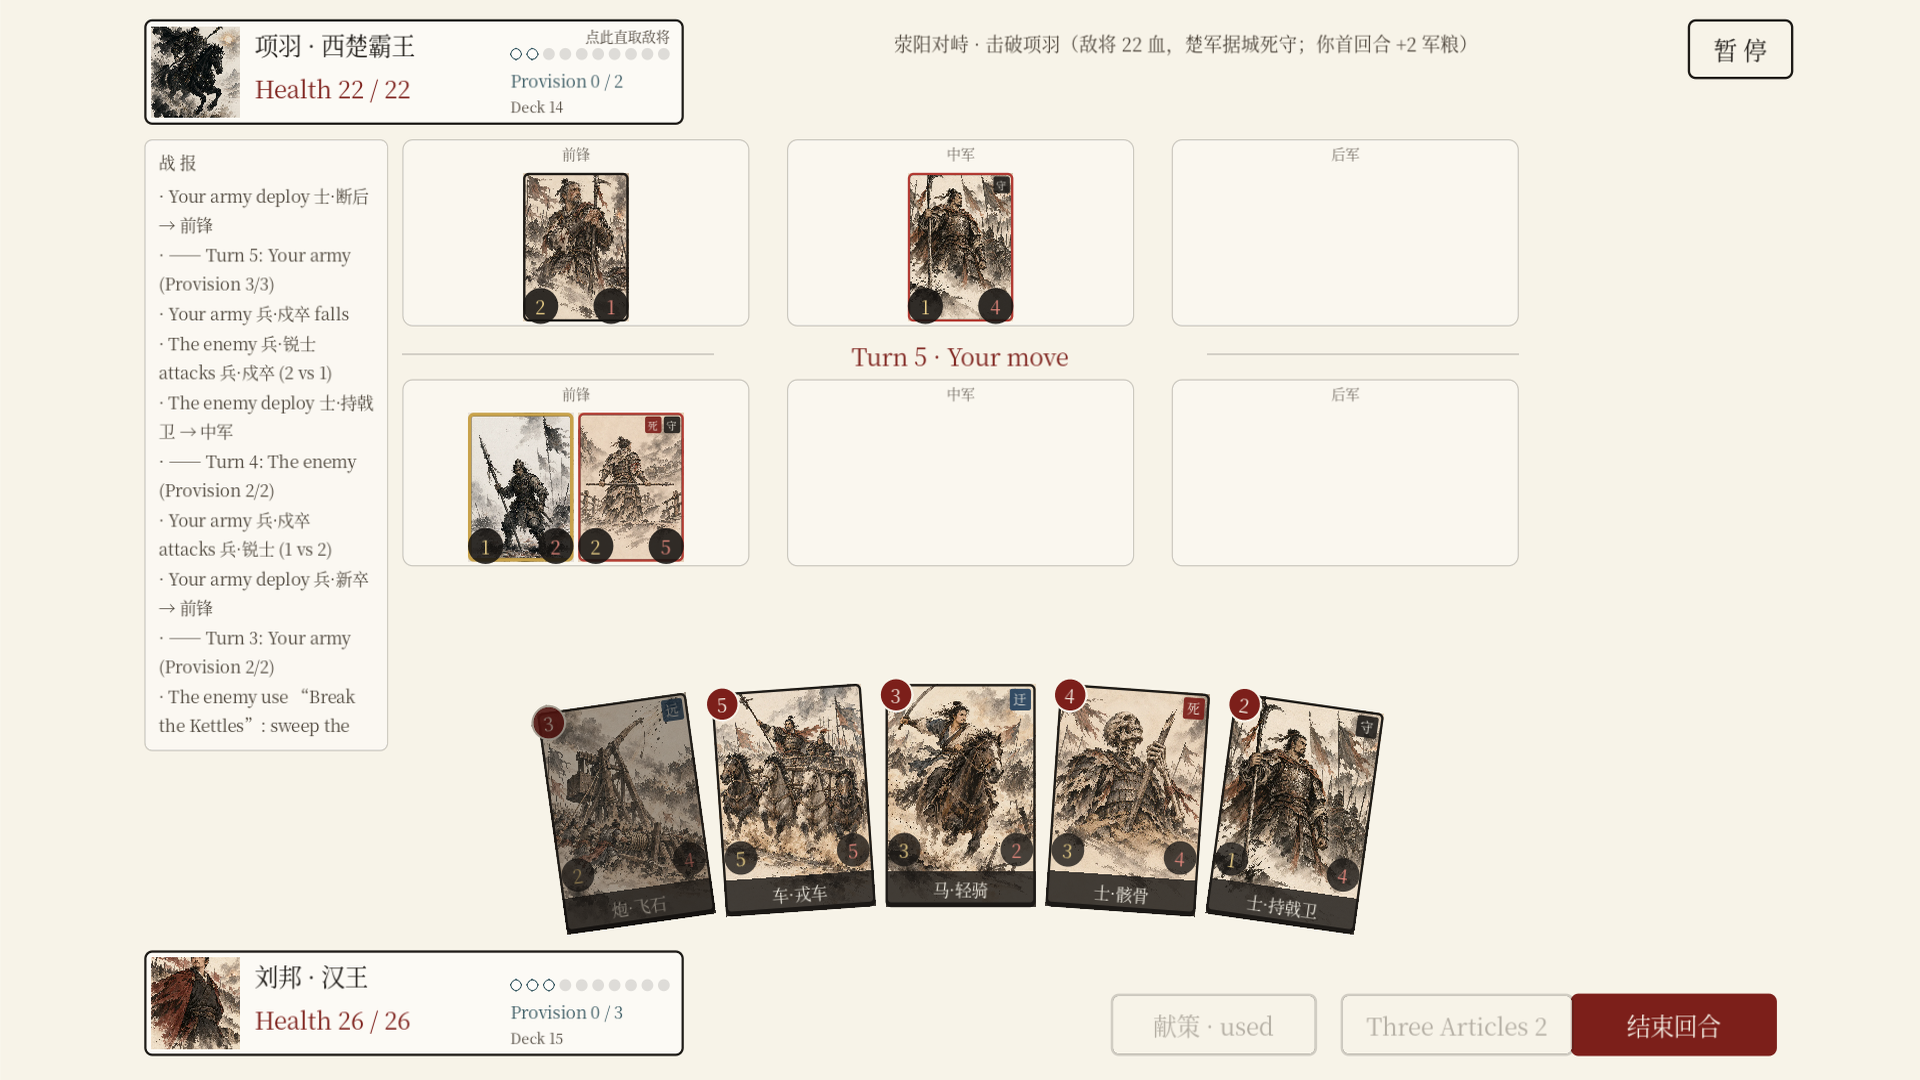
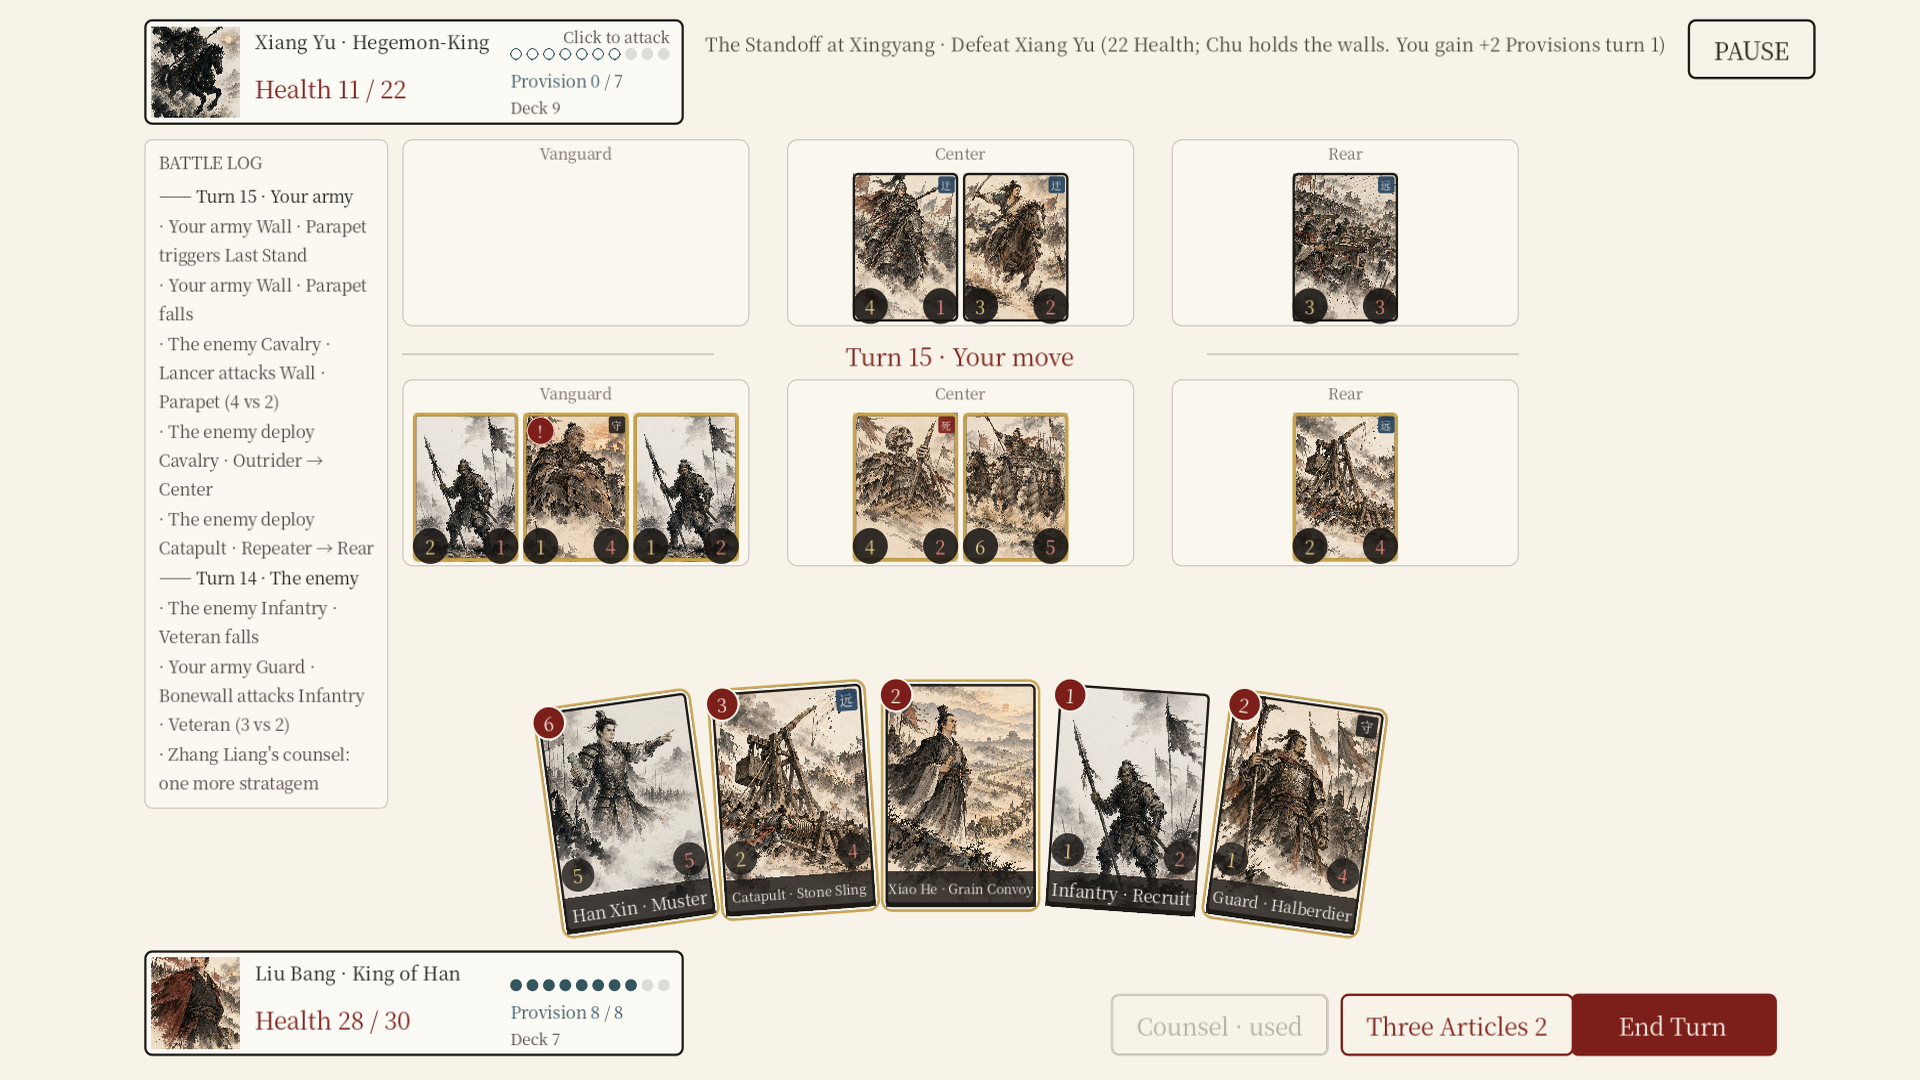
fix(ui): 主将卡英文名与提示放得下；商店截图不再中英混排
重拍商店首图时从成品里看出两个跟字号无关的问题，都只有英文玩家看得到。

一、英文截图混着中文
截图脚本原来是「先打一局中文 → 切英文 → 同一局再拍」，拍出来英文句子里的卡名是中文
（The enemy deploy 马·轻骑 → 中军）、手牌牌名整片中文。两层原因：卡牌实例是 GameData
的副本，apply_data() 改不到；战报条目的卡名是生成那一刻写死进 a["name"] 的。
relang() 能救「当场重画」的元素，救不了历史文本 —— 所以改成中英各打一整局，语言开打前就定。

二、主将卡两处文字放不下
- 名字栏 210px：中文「项羽 · 西楚霸王」137px，英文「Xiang Yu · Hegemon-King of Chu」
  20px 要 321px、16px 260px、14px 229px —— 降到哪一档都放不下，不是调字号能解决的。
  三条一起上：新增 UiTheme.fit_size(text, max_w, [20,16]) 按宽度降档；文案收成 Hegemon-King
  （204px @16 过线）；保留 ellipsis 兜底。
- 提示框 136px：英文旧译 192px，右对齐且没开裁剪，于是往左溢出卡片、压到顶部关卡目标条上。
  收成「Click to attack」90px，并开 clip_text。

三、首图
battle_shot_peek 现在等双方各铺到 3 支部队才拍，拍前把指针挪到左上角空处（默认指针停在
窗口中央正压手牌，卡牌会放大悬出来糊住战场）。

legibility_test 7 → 10 项，新增三条盯名字/提示宽度与「提示必须开着裁剪」。
可证伪性验过：旧英文塞回去一次报出 321/257 与 192。

回归：Godot 2510 项（连跑三次一致）+ E2E 24、包内 E2E 24 全绿；
JS 2067/929/279/48/35 全绿。exe 重导出 145.7 MiB。
踩坑 72（切语言救不了历史文本）、73（固定宽名字必须按最长语言量）。

diff --git a/js/lang-en.js b/js/lang-en.js
@@ -19,7 +19,7 @@
       '楚汉': 'CHU–HAN',
       '问鼎': 'BATTLE FOR THE THRONE',
       '刘邦': 'Liu Bang', '汉王': 'King of Han',
-      '项羽': 'Xiang Yu', '西楚霸王': 'Hegemon-King of Chu',
+      '项羽': 'Xiang Yu', '西楚霸王': 'Hegemon-King',
       '技能「约法三章」（2 军粮）': 'Power \u201CThree Articles\u201D (2 Prov)',
       '恢复 2 点血；满血时随机友军 +1 攻': 'Restore 2 Health; at full Health, a random friendly unit gains +1 Attack.',
       '技能「破釜沉舟」（1 军粮）': 'Power \u201CBreak the Kettles\u201D (1 Prov)',
@@ -340,7 +340,7 @@
         skill: { name: 'Three Articles', desc: 'Restore 2 Health; if already at full Health, a random friendly unit gains +1 Attack.' }
       },
       xiangyu: {
-        name: 'Xiang Yu', title: 'Hegemon-King of Chu',
+        name: 'Xiang Yu', title: 'Hegemon-King',
         intro: '26 Health, aggression style. A power that sweeps the enemy Vanguard—all tempo, no mercy.',
         skill: { name: 'Break the Kettles', desc: 'Deal 1 damage to every enemy in the Vanguard; if that column is empty, deal 1 damage to the enemy commander.' }
       }
@@ -363,7 +363,7 @@
         subtitle: 'They are the knife and block; we are the fish and meat',
         lore: 'You entered the Pass first and broke Xianyang. Xiang Yu brought four hundred thousand men to Hongmen; you have ten thousand.\n\nYou come to the feast. At table, Fan Zeng lifts his jade pendant three times; Xiang Yu sits silent. Xiang Zhuang rises to dance with his sword, and its edge grazes your seat again and again—Xiang Bo shields you with his body; Fan Kuai storms the tent, eyes blazing.\n\nThis battle is not for winning. Walk out of that tent alive, and you have won.',
         goalText: 'Survive 10 turns (you have 12 Health and a hand limit of 3)',
-        enemy: { name: 'Xiang Yu', title: 'Hegemon-King of Chu' }
+        enemy: { name: 'Xiang Yu', title: 'Hegemon-King' }
       },
       pengcheng: {
         chapter: 'Chapter III', name: 'The Battle of Pengcheng',
@@ -371,7 +371,7 @@
         subtitle: 'The Sui River could not flow for the dead',
         lore: 'While Xiang Yu marched north against Qi, you fell on Pengcheng with half a million allied troops and took it. You thought the matter settled, and feasted day after day.\n\nThen Xiang Yu came back with thirty thousand picked horse. In half a day, half a million men came apart. The Sui River could not flow for the dead.\n\nHis riders are drawn up in their ranks. You will get one chance, and only one.',
         goalText: 'Defeat Xiang Yu (1 enemy vanguard is already arrayed; you gain +2 Provisions turn 1)',
-        enemy: { name: 'Xiang Yu', title: 'Hegemon-King of Chu' }
+        enemy: { name: 'Xiang Yu', title: 'Hegemon-King' }
       },
       xingyang: {
         chapter: 'Chapter IV', name: 'The Standoff at Xingyang',
@@ -379,7 +379,7 @@
         subtitle: 'Ji Xin burns; the King slips out by night',
         lore: 'Xiang Yu walls you into Xingyang and cuts the grain road. The city is starving; the soldiers are spent.\n\nChen Ping\u2019s sowing of distrust drives Fan Zeng away. Ji Xin dresses in your robes and rides your chariot out the east gate, offering a false surrender—and burns for it. You cut your way out the west gate with a few dozen riders, under cover of dark.\n\nTo leave this city, first punch through Chu\u2019s iron wall.',
         goalText: 'Defeat Xiang Yu (22 Health; Chu holds the walls. You gain +2 Provisions turn 1)',
-        enemy: { name: 'Xiang Yu', title: 'Hegemon-King of Chu' }
+        enemy: { name: 'Xiang Yu', title: 'Hegemon-King' }
       },
       jingxing: {
         chapter: 'Chapter V', name: 'Backs to the River',
@@ -403,7 +403,7 @@
         subtitle: 'No relief comes; hold the line alone',
         lore: 'The Treaty of the Hong Canal is signed, and Xiang Yu marches east for home. You tear it up and follow on his heels, sending word for Han Xin and Peng Yue to join you at Guling.\n\nThe appointed day comes. Not one soldier of either relief army appears. Xiang Yu wheels about and smashes into you; you dig in behind high walls and deep ditches.\n\nIf no relief is coming, then hold this line yourself.',
         goalText: 'Defeat Xiang Yu (18 Health, hand limit 4, +2 Provisions turn 1; the enemy also gains +2 Provisions turn 1)',
-        enemy: { name: 'Xiang Yu', title: 'Hegemon-King of Chu' }
+        enemy: { name: 'Xiang Yu', title: 'Hegemon-King' }
       },
       gaixia: {
         chapter: 'Chapter VIII', name: 'The Final Battle at Gaixia',
@@ -411,7 +411,7 @@
         subtitle: 'Ambush on ten sides; songs of Chu on four',
         lore: 'Han Xin\u2019s three hundred thousand hold the center, Kong Xi on the left, Chen He on the right, Zhou Bo and Chai Wu behind—ambush upon ambush, ten deep, folding around the Chu army at Gaixia.\n\nAt midnight the Han camp sings songs of Chu on every side. Xiang Yu starts up in alarm: \u201CHas Han taken all of Chu? Why are there so many men of Chu over there!\u201D\n\nThis is the last battle. He is still the Hegemon who once lifted a cauldron.',
         goalText: 'Defeat Xiang Yu (30 Health; an enemy Lancer opens on the field and the enemy gains +2 Provisions turn 1; you gain +3 Provisions turn 1)',
-        enemy: { name: 'Xiang Yu', title: 'Hegemon-King of Chu' }
+        enemy: { name: 'Xiang Yu', title: 'Hegemon-King' }
       }
     },
 

diff --git a/test/i18n-check.js b/test/i18n-check.js
@@ -60,7 +60,9 @@ section('② 数据层来回切换');
   I.setLang('en', { noDom: true });
   assert(D.CARDS.n_bing1.name === 'Infantry · Recruit', 'EN 卡名：' + D.CARDS.n_bing1.name);
   assert(D.CARDS.n_shi3.desc.indexOf('Taunt') === 0, 'EN 牌面应含 Taunt 关键词');
-  assert(D.HEROES.xiangyu.title === 'Hegemon-King of Chu', 'EN 头衔');
+  // 「Hegemon-King of Chu」在主将卡名字栏（210px）里 16px 还有 260px，怎么降档都放不下，
+  // 全项目统一收成 Hegemon-King（godot/tests/legibility_test.gd 会盯着这个宽度）
+  assert(D.HEROES.xiangyu.title === 'Hegemon-King', 'EN 头衔');
   assert(C.STAGES[0].name === 'Rising at Pei County', 'EN 关名');
   assert(C.STAGES[0].enemy.meta.name === 'Qin · Sishui Commandant', 'EN 敌将名');
   assert(C.ADVISORS[0].name === 'Zhang Liang', 'EN 军师名');

diff --git a/docs/technical.md b/docs/technical.md
@@ -297,3 +297,7 @@ CHROME="C:/Program Files (x86)/Microsoft/Edge/Application/msedge.exe" node legac
 70. **排版预算要按「最长的那种语言」定，中文过了不代表英文过了**：战报每条的行数上限原写死 `max_lines_visible = 2`，中文最长一条 233px ≈ 1.3 行，稳稳通过；换成英文，同一句是 539px ≈ **2.9 行**，超出的部分被静默截掉——不是省略号，是半句话没了，而且只有英文玩家看得到。修法是按语言给行数（中 2 / 英 3），并在测试里把两种语言的预算分开写。**判据：任何「行数 / 字数 / 宽度」上限都要问一句「这是在哪个语言下量的」；中英混排的项目里，中文量出来的余量乘以 1.6 才是英文的预算。**
 
 71. **C 盘写满时，坏掉的是「执行」而不是「编辑」——两者要分开判断**（66 的第二次踩到，2026-11-07）：`C: 119G/119G，剩 8.2MB`，于是**每一条 Bash 命令**都返回 `ENOSPC: no space left on device, write`，包括 `echo ok`、包括 `rm`、包括加 `dangerouslyDisableSandbox` 的版本——因为工具要把命令和输出先落到 C 盘临时目录。同一时刻 `Write` / `Edit` 却照常工作，因为它们的检查点备份落在工作区（D 盘）。于是出现很反直觉的一幕：**代码改得动、文档改得动、测试跑不了、git 提不了**。诊断办法只有一条：`df -h /c /d`，看到 `Avail` 只剩个位数 MB 就是它。**判据：所有命令同时失败、且报错里带 `write`，先看磁盘再看语法；想立刻缓解就让用户清 Windows 更新缓存 / `cleanmgr` / 关休眠，别在工具层找原因。**
+
+72. **改语言之后再拍/再显示的界面，会混着两种语言——名字是「生成那一刻」写进数据的**：商店截图脚本原来是「先打一局中文，再切英文拍第二张」，结果英文图里战报是英文句子、里面的卡名却是中文（`The enemy deploy 马·轻骑 → 中军`），手牌牌名也整片中文。原因有两层：① 卡牌实例是 `GameData` 的**副本**，`I18n.apply_data()` 只会就地改 `GameData` 里那批字典，改不到已经进了 `state` 的副本——需要 `I18n.localize_state(state)`（`battle.gd` 的 `relang()` 已经在做）；② 战报条目是 `{k, a}`，卡名在**生成那一刻**就被写死进 `a["name"]`，事后切语言永远改不回来。所以「切语言」只对**之后新产生**的内容有效，历史文本原样留着。判据：任何「语言可切换」的界面，验收图必须**从头就在目标语言下跑一遍**，不能切完语言再拍；只有能证明是「当场重画」的元素才允许走 `relang()` 这条路。
+
+73. **一栏固定宽度的名字，语言一换就必然超——修法只能在「改数据 / 改版式 / 给兜底」里选**：主将卡名字栏 210px，中文「项羽 · 西楚霸王」137px 富余，英文「Xiang Yu · Hegemon-King of Chu」20px 要 **321px**、降到 16px 还有 260px、14px 229px——**降到哪一档都放不下**，这不是调字号能解决的。同理敌将提示框 136px，英文旧译 192px，而它右对齐且没开裁剪，于是往左溢出卡片、压到顶部的关卡目标条上（1920 截图里糊成一片才发现）。这一轮的做法是三条一起上：① 名字按宽度自动降档 `UiTheme.fit_size(text, max_w, [20,16])`（只给阶梯，不给任意值）；② 文案收短（`Hegemon-King of Chu` → `Hegemon-King`，204px @16 过线）；③ 提示开 `clip_text + ellipsis` 当最后一道兜底。**判据：给「长度随语言变」的文本留位置时，先量最长的那种语言的**行宽**，量完再决定是缩字号、改文案还是改版式；三者都试过还不行的，说明这个位置的宽度本来就是按中文定的，得改版式，别继续缩字号。**

diff --git a/docs/plan-next-phase.md b/docs/plan-next-phase.md
@@ -784,6 +784,36 @@ python tools/make-steam-art.py --check-hero 图.png
 - 12px 以上的字号阶梯有 15/17/18/19/22/23/24/28/30 一堆历史档，散在弹层/图鉴/结算里。
   这次只钉下限，没有统一阶梯 —— 统一是纯审美重构，风险和收益不成比例。
 
+## 五·十六、商店截图暴露的两个英文缺陷（✅ 2026-11-07）
+
+小屏可读性那轮改完，重拍商店首图时，**从成品截图里**看出两个跟字号无关的问题。
+两个都只有英文玩家看得到，中文界面完全正常。
+
+### 一、英文截图混着中文
+
+脚本原来是「先打一局中文 → 切英文 → 同一局再拍一张」，拍出来英文句子里的卡名是中文
+（`The enemy deploy 马·轻骑 → 中军`），手牌牌名整片中文。真因有两层：卡牌实例是 `GameData`
+的副本（`apply_data()` 改不到），战报条目的卡名是**生成那一刻**写死进 `a["name"]` 的。
+修法是改脚本：中英各打一整局，语言在开打前就定。`battle.gd` 的 `relang()` 能救「当场重画」
+的元素，救不了历史文本。
+
+### 二、主将卡两处文字放不下
+
+| 位置 | 宽度 | 中文 | 英文 | 处理 |
+|---|---|---|---|---|
+| 名字 | 210px | 137px | 「Xiang Yu · Hegemon-King of Chu」321px | 降档 20→16（260px 仍超）→ 文案收成 `Hegemon-King`，204px 过线 |
+| 提示 | 136px | 78px | 「Click to strike the commander」192px | 收成「Click to attack」90px + 开 `clip_text` |
+
+提示这条尤其难看：右对齐 + 不裁剪，放不下就往**左**溢出卡片，直接压到顶部关卡目标条上。
+`legibility_test` 从 7 项加到 **10 项**，新增三条盯这里（两语言 × 两个主将的名字/提示宽度、
+以及「提示必须开着裁剪」）。可证伪性验过：把旧英文塞回去，一次报出 `321/257` 与 `192` 两项。
+
+### 三、顺带把首图拍好
+
+原来 `--tour` 拍的战斗是开局瞬间、盘面全空。`battle_shot_peek.gd` 现在：双方各铺到 **3 支部队**
+才拍、中英各一整局、拍前把指针挪到左上角空处（默认指针停在窗口中央正压手牌，卡牌会放大悬出来
+糊住战场）。判定标准就是「缩到 1280 宽还能一眼看出这是三列军阵的卡牌对战」。
+
 ## 六、只有用户能做的三件事
 
 1. **六张事件插图**（生图，我接不了这一步）；

diff --git a/docs/battle-ui-spec.md b/docs/battle-ui-spec.md
@@ -56,16 +56,21 @@
 | 元素 | 位置 | 规格 |
 |---|---|---|
 | 头像 | (6,6) | 76×76，`STRETCH_KEEP_ASPECT_COVERED`，不接收点击（点击落到卡片上） |
-| 名字 | (94,6) 222×26 | 20px 墨色，超长省略号 |
+| 名字 | (94,6) 210×26 | 20px 墨色；放不下自动降到 16（`UiTheme.fit_size`），仍超才省略号 |
 | 血量 | (94,42) 180×30 | 20px 朱砂；≤30% 转 `#c0261c` |
 | 军粮点阵 | (312,24) | 10 颗，点径 10，间距 4；实心 `#33555e`／空心（描边）／灰（未解锁） |
 | 军粮数字 | (312,40) 136×20 | 14px `#33555e` |
 | 牌库/疲劳 | (312,64) 136×16 | 13px 辅助色；余量 ≤3 转 `#8a6416`，抽空转朱砂「疲劳 N 伤」 |
-| 敌将提示 | (312,5) 136×15 | 13px，右对齐，仅敌方卡片有 |
+| 敌将提示 | (312,5) 136×15 | 13px，右对齐 + 裁剪，仅敌方卡片有 |
 | 险印 | (280,44) 28×28 | 朱砂圆；只在「可达敌军总攻 ≥ 主将血量」时亮 |
 
-右栏三行（点阵 24 / 军粮 40 / 牌库 64）都从 x 312 起、宽 136，与左侧头像+名字+血量分栏。
-牌库行 y=64 是因为 Label 实际行高被字号钳到 23px：再往下 1px 就压到血条框内缘（框高 88）。
+右栏三行（点阵 24 / 军粮 40 / 牌库 64）都从 x 312 起、宽 136，与左侧头像+名字+血量分栏。牌库行 y=64 是因为 Label 实际行高被字号钳到 23px：再往下 1px 就压到血条框内缘（框高 88）。
+
+**这两处宽度是中英共用的，量的时候要按最长的那种语言量**（`legibility_test.gd` 已钉）：
+名字 210px —— 中文「项羽 · 西楚霸王」137px，英文「Xiang Yu · Hegemon-King」20px 要 252px、
+16px 204px，所以按宽度降一档（`FS_TITLE → FS_BODY`）；再长的语言就得改版式而不是继续缩字号。
+提示 136px —— 中文「点此直取敌将」78px，英文旧译「Click to strike the commander」192px 会往左
+溢出卡片、压到顶部关卡目标条，现收短为「Click to attack」90px，并且开着 `clip_text`。
 
 军粮色用**黛青 #33555e**：水墨体系里的冷色，保留「资源」的语义区分，且不像原来的纯蓝 #3d5a80 那样跳。
 
